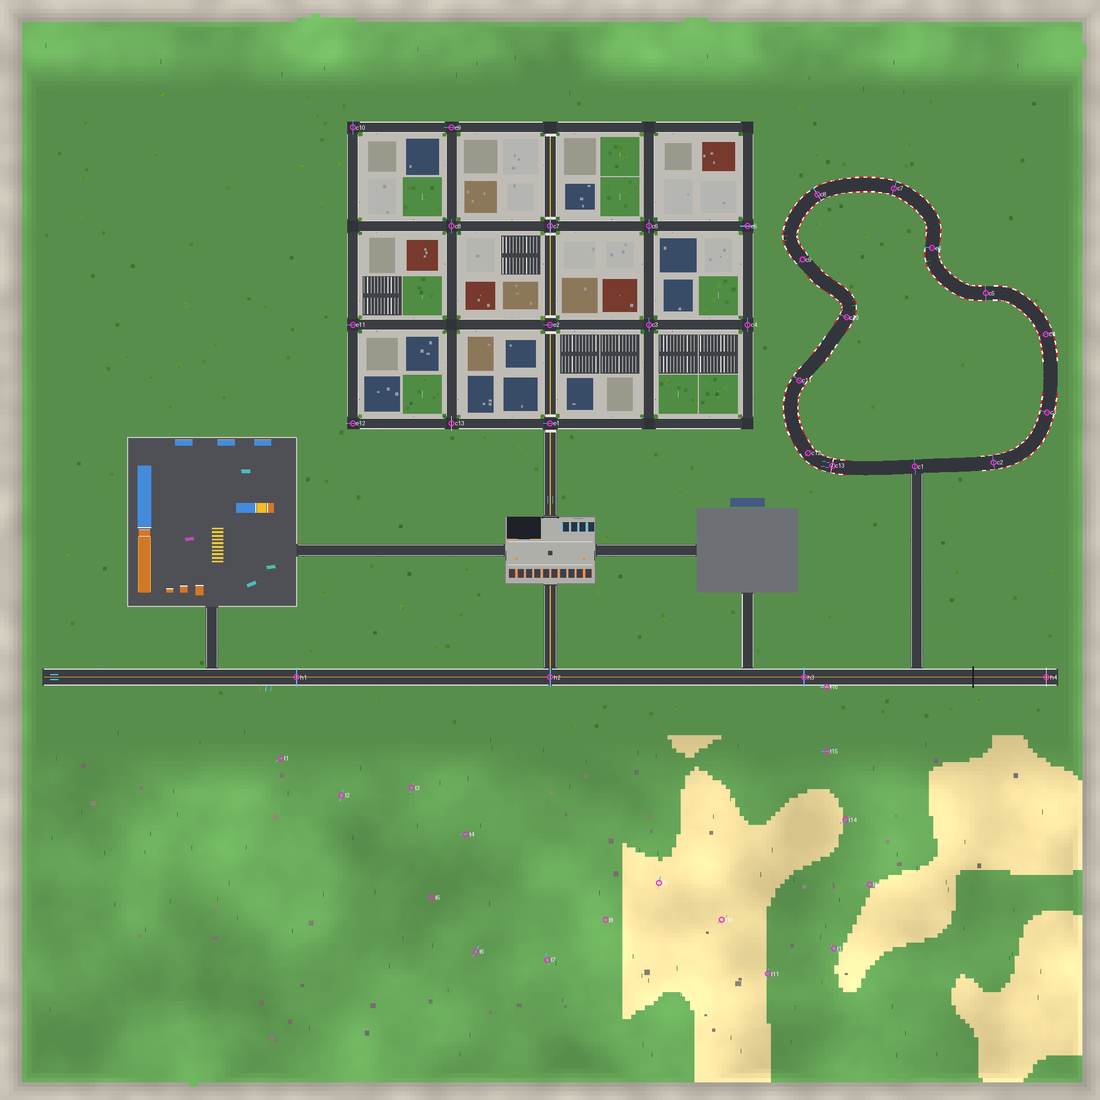
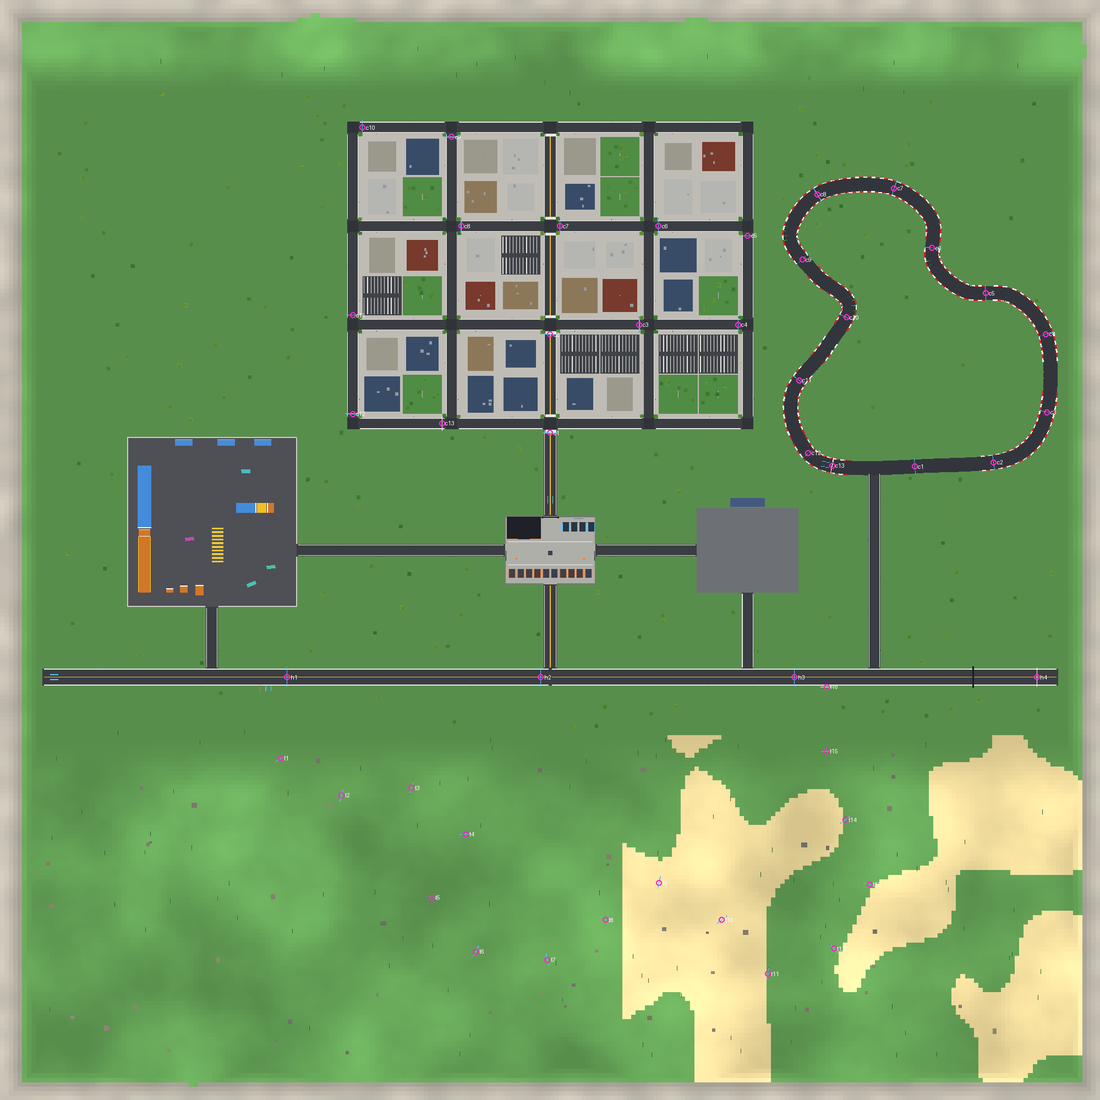
Validate against the Roblox API dump and fix layout issues
- tools/check_api.py checks class, property, method and enum names
  (and deprecations) against Full-API-Dump.json; runs in CI
- Lighting.Technology (deprecated) replaced by LightingStyle
- LoadCharacterAsync with a fallback for older engines
- new test: nothing solid may stand on roads, streets, the circuit or
  the dirt trail; it found the circuit gate on the access road, so the
  access road moved and street gates now sit before junctions
- UI scales down further on small phones; toasts below the race panel

Claude-Session: https://claude.ai/code/session_0195FC2RUV7M2RwVgbHgM51U

diff --git a/tools/check_api.py b/tools/check_api.py
@@ -1,0 +1,150 @@
+"""Static check of Roblox API usage against a Full-API-Dump.json.
+
+Usage: python3 tools/check_api.py <Full-API-Dump.json> [src]
+
+The dump is published at
+https://raw.githubusercontent.com/MaximumADHD/Roblox-Client-Tracker/roblox/Full-API-Dump.json
+
+Checks (heuristic, but catches typos that only show up at runtime in Studio):
+  * Instance.new("X") / GetService("X") / IsA("X") / FindFirstChildOfClass("X") class names
+  * Enum.Type.Item names
+  * capitalized `.Member =` assignments and `Member = ` keys in Kit.* / Build.* prop tables
+  * capitalized `:Method(` calls
+Members that are not in the API dump and not defined by our own modules are reported.
+"""
+import json
+import os
+import re
+import sys
+
+dump = json.load(open(sys.argv[1]))
+root = sys.argv[2] if len(sys.argv) > 2 else "src"
+
+classes = {c["Name"]: c for c in dump["Classes"]}
+enums = {e["Name"]: {i["Name"] for i in e["Items"]} for e in dump["Enums"]}
+members = set()
+props = set()
+funcs = set()
+live = set()  # names with at least one non-deprecated definition
+for c in dump["Classes"]:
+    for m in c["Members"]:
+        if "Deprecated" not in [t for t in m.get("Tags", []) if isinstance(t, str)]:
+            live.add(m["Name"])
+        members.add(m["Name"])
+        if m["MemberType"] == "Property":
+            props.add(m["Name"])
+        elif m["MemberType"] == "Function":
+            funcs.add(m["Name"])
+        elif m["MemberType"] == "Callback":
+            props.add(m["Name"])  # callbacks are assigned like properties
+
+# datatype members/methods (not in the class dump)
+datatype_members = {
+    "X", "Y", "Z", "Magnitude", "Unit", "Position", "LookVector", "RightVector", "UpVector",
+    "XVector", "YVector", "ZVector", "Rotation", "R", "G", "B", "Scale", "Offset", "Min", "Max",
+    "Keypoints", "Width", "Height",
+    # RaycastParams / OverlapParams
+    "FilterDescendantsInstances", "FilterType", "IgnoreWater", "RespectCanCollide", "CollisionGroup",
+    "BruteForceAllSlow", "MaxParts",
+}
+datatype_methods = {
+    "Dot", "Cross", "Lerp", "Inverse", "ToObjectSpace", "ToWorldSpace", "PointToWorldSpace",
+    "PointToObjectSpace", "VectorToWorldSpace", "VectorToObjectSpace", "GetComponents",
+    "ToEulerAnglesXYZ", "ToEulerAnglesYXZ", "ToOrientation", "ToAxisAngle", "FuzzyEq", "Abs",
+    "Floor", "Ceil", "Sign", "Min", "Max", "ToHSV", "ToHex", "NextNumber", "NextInteger",
+    "NextUnitVector", "Shuffle", "Clone", "AddToFilter", "Connect", "Once", "Wait", "Disconnect",
+    "Fire", "DisconnectAll", "Play", "Pause", "Cancel", "ExpandToGrid", "GetCurrentPage",
+    "AdvanceToNextPageAsync",
+}
+
+files = []
+for d, _, fs in os.walk(root):
+    for f in fs:
+        if f.endswith(".luau"):
+            files.append(os.path.join(d, f))
+
+# names our own modules define: `Module.Name =`, `function Module.Name`, `local Name`, table keys in data
+own = set()
+for path in files:
+    src = open(path).read()
+    own.update(re.findall(r"\b[A-Z]\w*\.([A-Z]\w*)\s*=", src))
+    own.update(re.findall(r"function\s+\w+[.:]([A-Z]\w*)", src))
+    own.update(re.findall(r"local\s+function\s+([A-Z]\w*)", src))
+
+problems = []
+
+
+def report(path, line, msg):
+    problems.append(f"{path}:{line}: {msg}")
+
+
+for path in files:
+    lines = open(path).read().split("\n")
+    for n, line in enumerate(lines, 1):
+        if "api-ok" in line:
+            continue  # explicit opt-out, e.g. a fallback for older engines
+        code = line.split("--")[0]
+        for cls in re.findall(r'Instance\.new\("(\w+)"', code):
+            if cls not in classes:
+                report(path, n, f"unknown class {cls}")
+        for cls in re.findall(r'(?:GetService|IsA|FindFirstChildOfClass|FindFirstChildWhichIsA|FindFirstAncestorOfClass|FindFirstAncestorWhichIsA)\("(\w+)"', code):
+            if cls not in classes:
+                report(path, n, f"unknown class {cls}")
+        for et, item in re.findall(r"\bEnum\.(\w+)\.(\w+)", code):
+            if et not in enums:
+                report(path, n, f"unknown enum Enum.{et}")
+            elif item not in enums[et]:
+                report(path, n, f"unknown enum item Enum.{et}.{item}")
+        for m in re.findall(r"[\w\)\]]\.([A-Z]\w*)\s*(?:[+\-*/]?=)(?!=)", code):
+            if m not in props and m not in own and m not in datatype_members:
+                report(path, n, f"unknown property {m}")
+            elif m in props and m not in live and m not in own:
+                report(path, n, f"deprecated property {m}")
+        for m in re.findall(r":([A-Z]\w*)\(", code):
+            if m not in funcs and m not in own and m not in datatype_methods and m not in members:
+                report(path, n, f"unknown method {m}")
+            elif m in funcs and m not in live and m not in own and m not in datatype_methods:
+                report(path, n, f"deprecated method {m}")
+
+    # keys inside Kit.*({ ... }) / Build.part({ ... }) / Kit.new("X", { ... }) property tables
+    src = "\n".join(lines)
+    kit_classes = {"label": "TextLabel", "button": "TextButton", "panel": "Frame"}
+    matches = [(m, m.group(1)) for m in re.finditer(r'Kit\.new\("(\w+)",\s*\{', src)]
+    matches += [(m, kit_classes[m.group(1)]) for m in re.finditer(r"Kit\.(label|button|panel)\(\{", src)]
+    for mt, cls in matches:
+        depth, i = 1, mt.end()
+        while i < len(src) and depth:
+            if src[i] == "{":
+                depth += 1
+            elif src[i] == "}":
+                depth -= 1
+            i += 1
+        body = src[mt.end(): i - 1]
+        # only top-level keys
+        level = 0
+        for k in re.finditer(r"[{}]|\b([A-Z]\w*)\s*=(?!=)", body):
+            tok = k.group(0)
+            if tok == "{":
+                level += 1
+            elif tok == "}":
+                level -= 1
+            elif level == 0 and k.group(1):
+                name = k.group(1)
+                if name == "Parent" or name in ("onClick", "cornerRadius"):
+                    continue
+                c = classes.get(cls)
+                found = False
+                while c:
+                    if any(m["Name"] == name for m in c["Members"]):
+                        found = True
+                        break
+                    c = classes.get(c.get("Superclass"))
+                if not found:
+                    line = src[: mt.start()].count("\n") + 1
+                    report(path, line, f"{cls} has no property {name}")
+
+errors = [p for p in problems if "deprecated" not in p]
+for p in problems:
+    print(("warning: " if "deprecated" in p else "error: ") + p)
+print(f"{len(errors)} error(s), {len(problems) - len(errors)} warning(s) in {len(files)} files")
+sys.exit(1 if errors else 0)

diff --git a/CLAUDE.md b/CLAUDE.md
@@ -19,9 +19,14 @@ tools/test.sh physics    # one spec file (cars | physics | server | client)
 tools/build.sh           # rojo build -> build/CarsGame.rbxlx (place) + build/CarsMode.rbxmx (installer model)
 tools/render.sh          # docs/cars.png + docs/map.png from the dumps the tests write to tests/out/
 selene src && stylua --check src tests
+python3 tools/check_api.py <Full-API-Dump.json> src   # class/property/method/enum names vs the real Roblox API
 ```
 
-Always run `tools/test.sh`, `selene src`, `stylua src tests` and `tools/build.sh` before
+The API dump is at
+`https://raw.githubusercontent.com/MaximumADHD/Roblox-Client-Tracker/roblox/Full-API-Dump.json`
+(CI downloads it). Add `-- api-ok` to a line to silence an intentional fallback.
+
+Always run `tools/test.sh`, `selene src`, `stylua src tests`, the API check and `tools/build.sh` before
 committing, and commit the rebuilt `build/` files (the user opens them directly in Studio).
 
 ## Layout (default.project.json)
@@ -75,6 +80,8 @@ Instances are property bags, DataStores are in memory). `tests/harness/carsim.lu
 is a small rigid-body simulator used to drive every car through settle / accelerate /
 brake / corner / slalom / drift / slope / jump / FPS-independence scenarios.
 When changing `CarPhysics` or car stats, run `tools/test.sh physics`.
+`tests/server.spec.luau` also builds the whole map and fails if anything solid stands
+on a road, street, the circuit or the dirt trail — keep it green when moving things.
 For visual checks of car shapes run the tests, then `python3 tools/render_cars.py
 tests/out/cars.json /tmp/out.png <id,id>` and look at the image.
 
